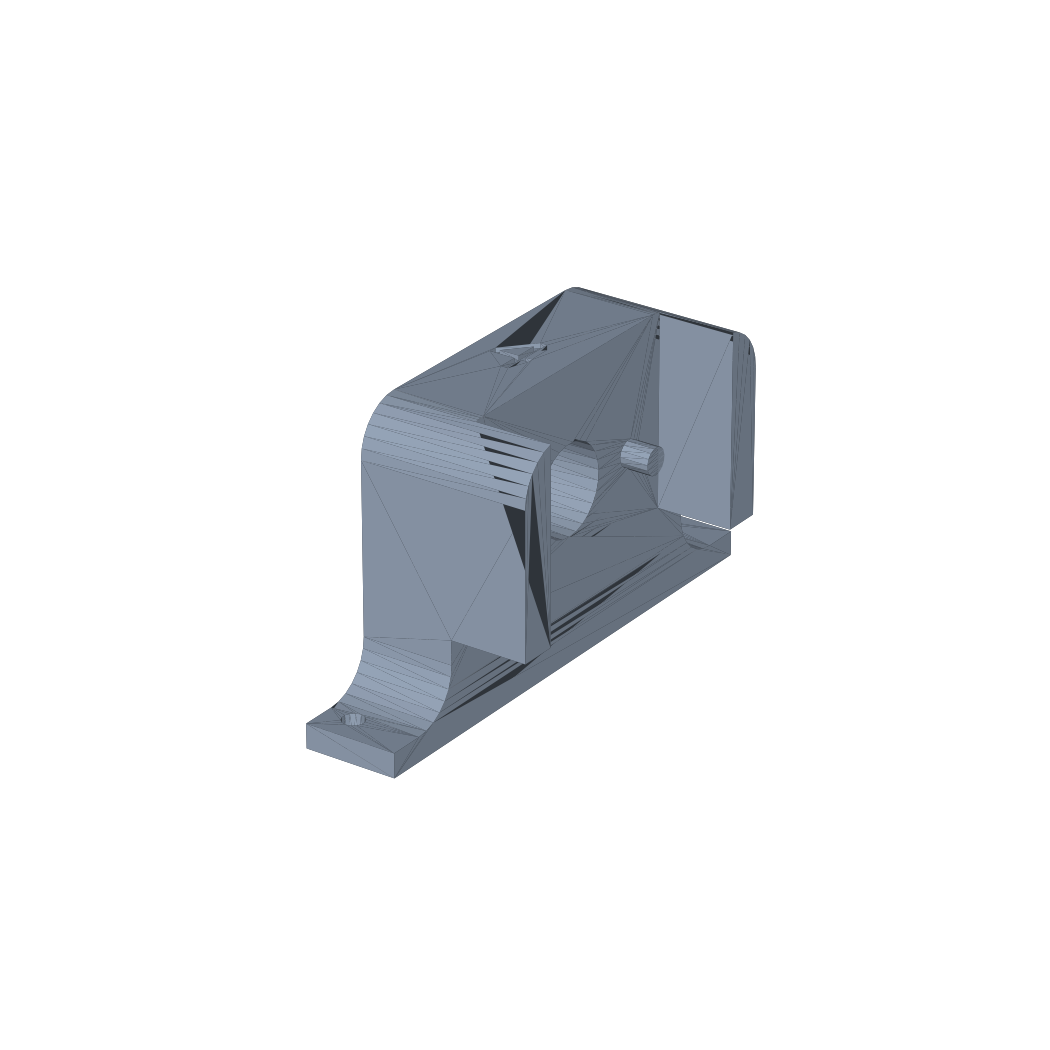
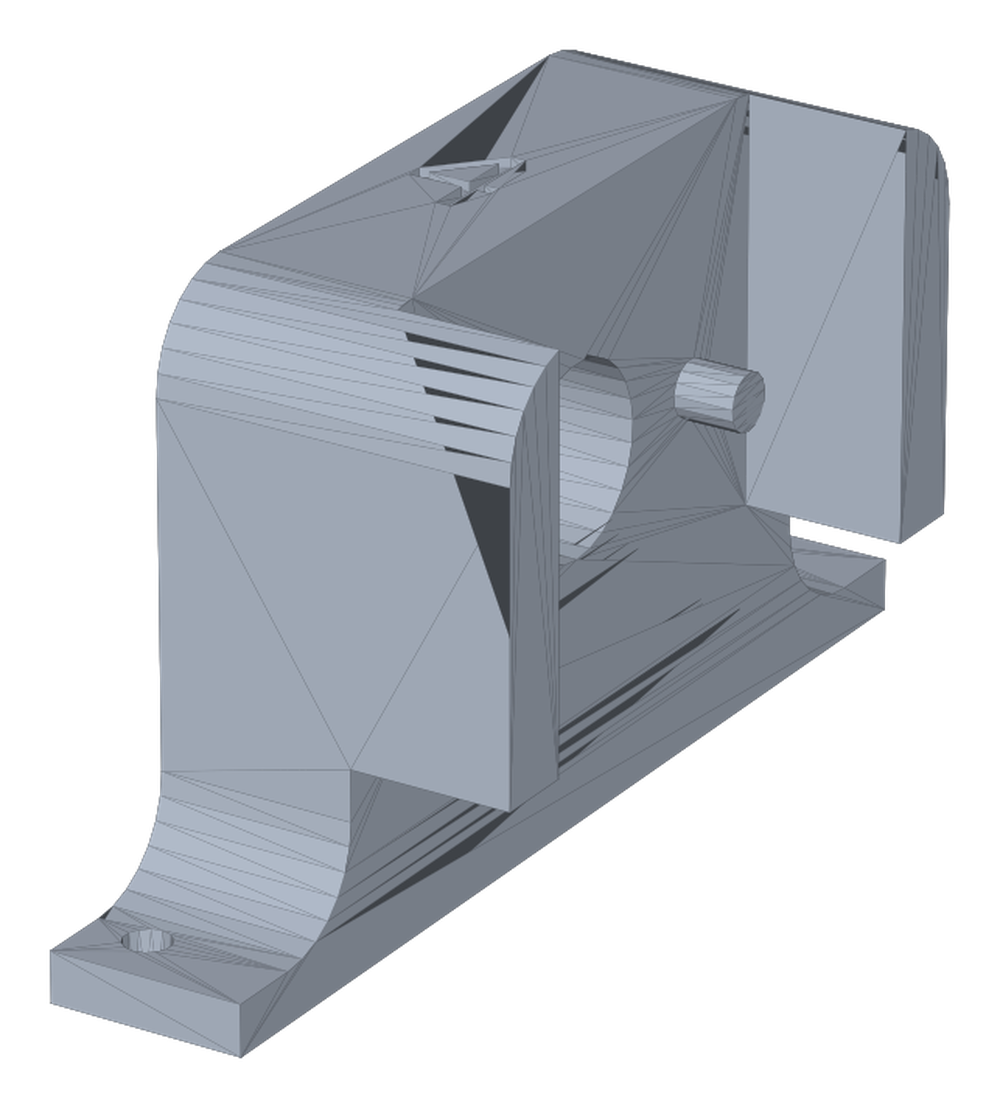
updated readme, added photos

diff --git a/README.md b/README.md
@@ -5,6 +5,7 @@ STL you can spin in your browser — **click any `.stl` link and GitHub renders 
 in 3D**.
 
 All dimensions in millimetres. Drawings drawn by me (Kevin).
+All parts are printed in PLA.
 
 ---
 
@@ -14,7 +15,7 @@ All dimensions in millimetres. Drawings drawn by me (Kevin).
 
 <img src="images/encoder_mount.png" width="380" align="right">
 
-Bracket carrying the wheel encoder against the drivetrain.
+Bracket carrying the wheel encoder against the driveshaft.
 
 | | |
 |---|---|
@@ -22,9 +23,15 @@ Bracket carrying the wheel encoder against the drivetrain.
 | **Key features** | Ø9.35 shaft bore, 2× Ø2.80 fasteners, 4× R5.00 fillets |
 | **3D model** | [`cad/stl/encoder_mount.stl`](cad/stl/encoder_mount.stl) |
 | **Drawing** | [`docs/encoder_mount_drawing.pdf`](docs/encoder_mount_drawing.pdf) |
-| **Source** | [`cad/source/encoder_mount.ipt`](cad/source/encoder_mount.ipt) |
 
 <br clear="all">
+
+<p align="center">
+  <img src="images/encoder_mount_hand.jpg" width="47%">
+  <img src="images/encoder_mount_installed.jpg" width="47%">
+</p>
+
+<p align="center"><em>Printed mount carrying a CUI AMT103 encoder · installed on the driveshaft</em></p>
 
 ### PCB standoff
 
@@ -39,7 +46,6 @@ Tray that lifts pcb off the acrylic base plate and holds it at the corners.
 | **Standoff height** | 3.00 mm |
 | **3D model** | [`cad/stl/pcb_standoff_v1.stl`](cad/stl/pcb_standoff_v1.stl) |
 | **Drawing** | [`docs/pcb_standoff_v1_drawing.pdf`](docs/pcb_standoff_v1_drawing.pdf) |
-| **Source** | [`cad/source/pcb_standoff_v1.ipt`](cad/source/pcb_standoff_v1.ipt) |
 
 <br clear="all">
 
@@ -52,11 +58,17 @@ Tray that lifts pcb off the acrylic base plate and holds it at the corners.
 | | |
 |---|---|
 | **Envelope** | 46.8 × 37.4 × 1.8 mm |
-| **Features** | Two-tab clamp, split ring |
+| **Features** | 2× mounting tabs at 180°, terminal cutout for the speaker leads |
 | **3D model** | [`cad/stl/speaker_clamp_v3.stl`](cad/stl/speaker_clamp_v3.stl) |
 | **Drawing** | *not yet drawn* |
-| **Source** | [`cad/source/speaker_clamp_v3.ipt`](cad/source/speaker_clamp_v3.ipt) |
 
 <br clear="all">
+
+<p align="center">
+  <img src="images/speaker_clamp_fitted.jpg" width="47%">
+  <img src="images/speaker_assembly.jpg" width="47%">
+</p>
+
+<p align="center"><em>Clamp fitted to the driver, tabs adding the mounting holes · driver mounted in the enclosure</em></p>
 
 ---
